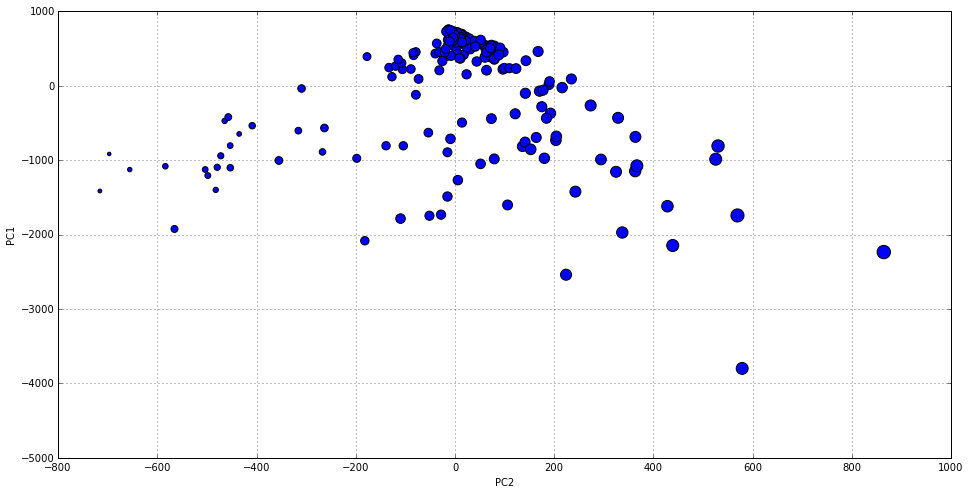
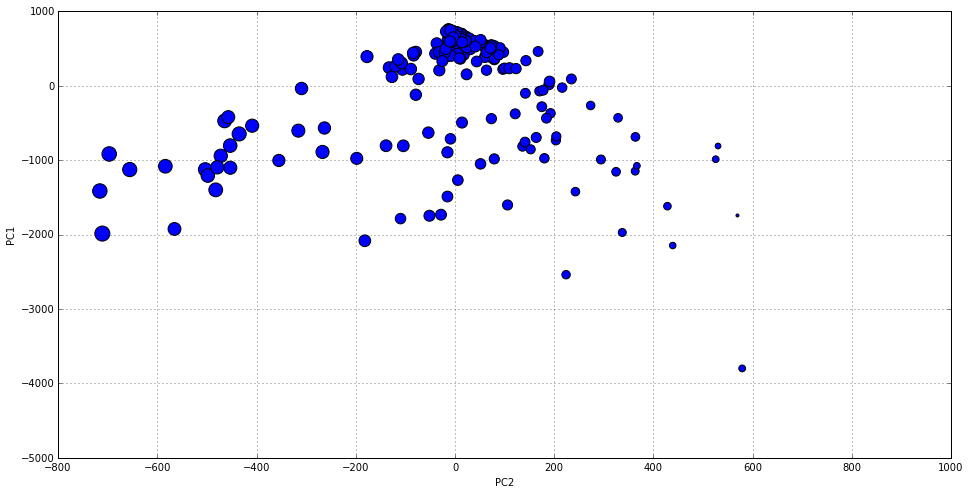
Starting Python part

diff --git a/dimensionality/dimensionality-reduction-clustering.md b/dimensionality/dimensionality-reduction-clustering.md
@@ -505,7 +505,7 @@ those with negative values in the original non-scaled version, since we are
 scaling to a [0,1] range.
 
 
-    existing_df_2d['country_change'] = pd.Series(existing_df['1990']-existing_df['2007'], index=existing_df_2d.index)
+    existing_df_2d['country_change'] = pd.Series(existing_df['2007']-existing_df['1990'], index=existing_df_2d.index)
     country_change_max = existing_df_2d['country_change'].max()
     country_change_min = existing_df_2d['country_change'].min()
     country_change_scaled = (existing_df_2d.country_change - country_change_min) / country_change_max
@@ -534,28 +534,28 @@ scaling to a [0,1] range.
   <tbody>
     <tr>
       <th>Afghanistan</th>
-      <td> 198</td>
-      <td> 1.117745</td>
+      <td>-198</td>
+      <td> 0.850840</td>
     </tr>
     <tr>
       <th>Albania</th>
-      <td>  20</td>
-      <td> 0.822554</td>
+      <td> -20</td>
+      <td> 1.224790</td>
     </tr>
     <tr>
       <th>Algeria</th>
-      <td> -11</td>
-      <td> 0.771144</td>
+      <td>  11</td>
+      <td> 1.289916</td>
     </tr>
     <tr>
       <th>American Samoa</th>
-      <td>  37</td>
-      <td> 0.850746</td>
+      <td> -37</td>
+      <td> 1.189076</td>
     </tr>
     <tr>
       <th>Andorra</th>
-      <td>  20</td>
-      <td> 0.822554</td>
+      <td> -20</td>
+      <td> 1.224790</td>
     </tr>
   </tbody>
 </table>
@@ -569,7 +569,7 @@ scaling to a [0,1] range.
 
 
 
-    <matplotlib.axes._subplots.AxesSubplot at 0x7f3196230250>
+    <matplotlib.axes._subplots.AxesSubplot at 0x7f3196625c50>
 
 
 
